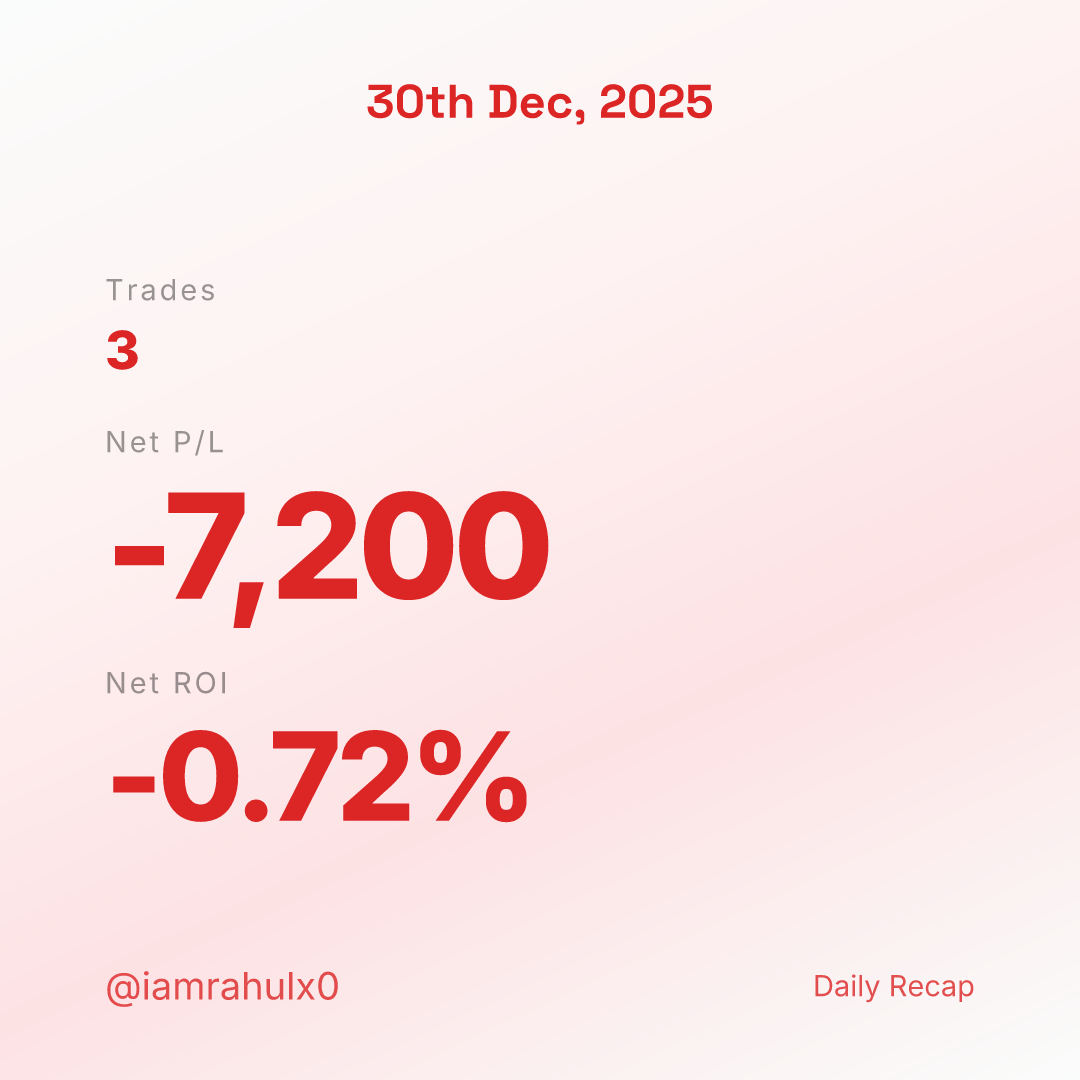
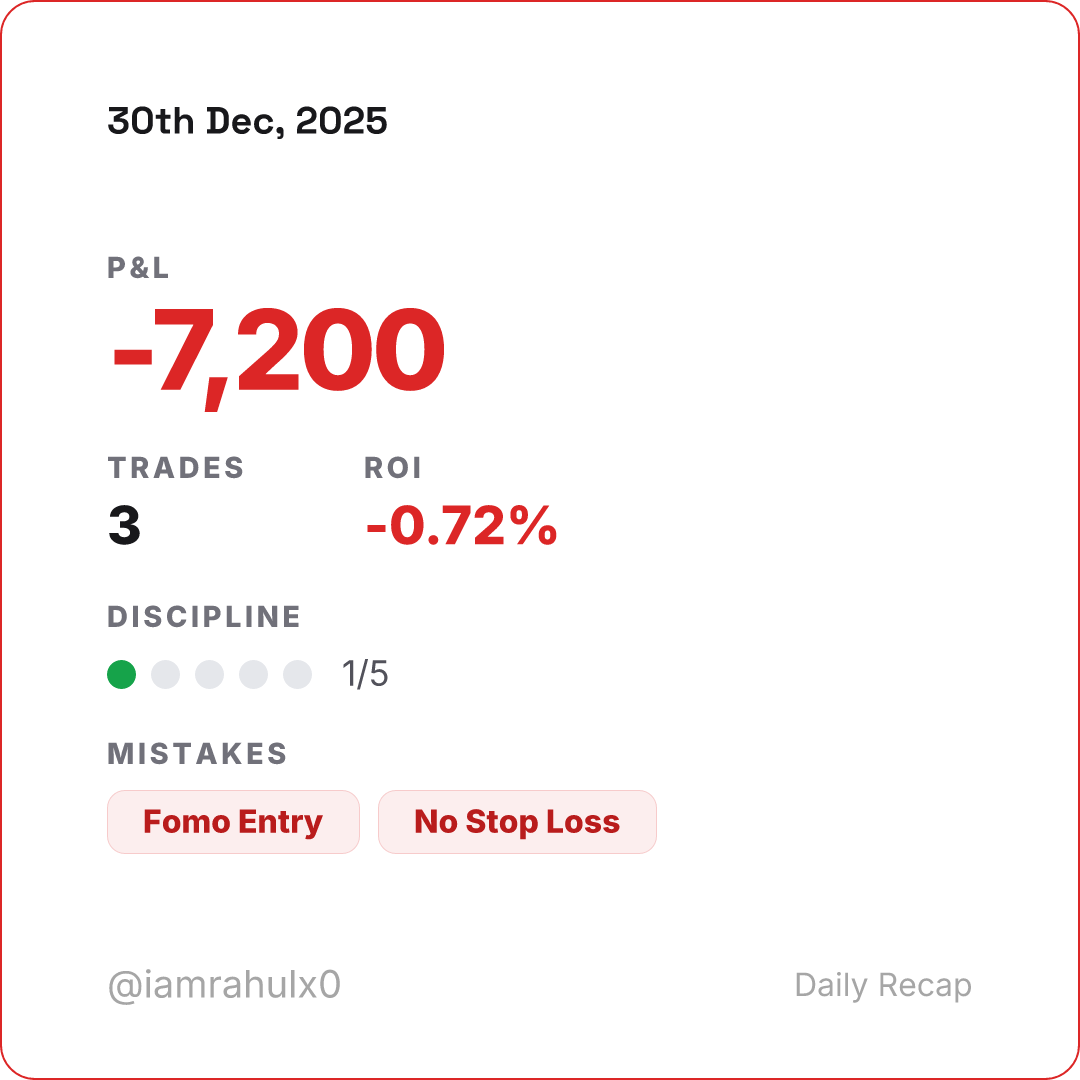
Update landing page: regenerate promo cards, fix border clipping & white bg
- Remove dark theme toggle & dark promo variants from landing page
- Regenerate all 6 promo PNGs with new card design (discipline + mistakes on daily)
- Fix accent border clipping: remove overflow-hidden/rounded from promo img containers
- Fix card background: add bg-white on img elements so transparent corners show white
- Delete unused dark-theme promo PNGs (daily/weekly/monthly-dark, *-loss-dark)
- Simplify og-card-styles to light-only theme

diff --git a/app/page.tsx b/app/page.tsx
@@ -6,8 +6,6 @@ import {
   TrendingUp,
   TrendingDown,
   Check,
-  Sun,
-  Moon,
 } from "lucide-react";
 import { PnLCardLogo } from "@/components/ui/pnlcard-logo";
 import dynamic from "next/dynamic";
@@ -630,28 +628,25 @@ function HeroDashboard() {
 // ─── Card showcase ───────────────────────────────────────────────
 
 type CardType = "daily" | "weekly" | "monthly";
-type CardTheme = "light" | "dark";
 type CardSide = "profit" | "loss";
 
 const CARD_META: Record<CardType, { label: string; pnl: string; pnlLoss: string; date: string }> = {
-  daily:   { label: "DAILY CARD",   pnl: "+₹8,400", pnlLoss: "-₹4,200", date: "2nd Jan, 2026" },
-  weekly:  { label: "WEEKLY CARD",  pnl: "+₹11,400", pnlLoss: "-₹6,800", date: "5 Jan – 11 Jan, 2026" },
-  monthly: { label: "MONTHLY CARD", pnl: "+₹65,000", pnlLoss: "-₹12,000", date: "Jan 2026" },
+  daily:   { label: "DAILY CARD",   pnl: "+₹8,400", pnlLoss: "-₹7,200", date: "2nd Jan, 2026" },
+  weekly:  { label: "WEEKLY CARD",  pnl: "+₹11,400", pnlLoss: "-₹10,000", date: "5 Jan – 11 Jan, 2026" },
+  monthly: { label: "MONTHLY CARD", pnl: "+₹65,000", pnlLoss: "-₹35,000", date: "Jan 2026" },
 };
 
-function getPromoSrc(type: CardType, theme: CardTheme, side: CardSide): string {
+function getPromoSrc(type: CardType, side: CardSide): string {
   const loss = side === "loss" ? "-loss" : "";
-  const dark = theme === "dark" ? "-dark" : "";
-  return `/promo/${type}${loss}${dark}.png`;
+  return `/promo/${type}${loss}.png`;
 }
 
 function CardShowcase() {
   const [cardType, setCardType] = useState<CardType>("daily");
-  const [theme, setTheme] = useState<CardTheme>("light");
   const [side, setSide] = useState<CardSide>("profit");
 
   const meta = CARD_META[cardType];
-  const mainSrc = getPromoSrc(cardType, theme, side);
+  const mainSrc = getPromoSrc(cardType, side);
 
   const otherTypes = (["daily", "weekly", "monthly"] as const).filter((t) => t !== cardType);
 
@@ -674,28 +669,6 @@ function CardShowcase() {
               {t.charAt(0).toUpperCase() + t.slice(1)}
             </button>
           ))}
-        </div>
-
-        {/* Theme */}
-        <div className="flex rounded-full border border-border bg-muted/40 p-0.5 sm:p-1">
-          <button
-            onClick={() => setTheme("light")}
-            className={`flex items-center gap-1 sm:gap-1.5 rounded-full px-2.5 py-1 sm:px-3 sm:py-1.5 text-xs sm:text-sm font-medium transition-all ${
-              theme === "light" ? "bg-white text-foreground shadow-sm" : "text-muted-foreground hover:text-foreground"
-            }`}
-          >
-            <Sun className="h-3 w-3 sm:h-3.5 sm:w-3.5" />
-            Light
-          </button>
-          <button
-            onClick={() => setTheme("dark")}
-            className={`flex items-center gap-1 sm:gap-1.5 rounded-full px-2.5 py-1 sm:px-3 sm:py-1.5 text-xs sm:text-sm font-medium transition-all ${
-              theme === "dark" ? "bg-white text-foreground shadow-sm" : "text-muted-foreground hover:text-foreground"
-            }`}
-          >
-            <Moon className="h-3 w-3 sm:h-3.5 sm:w-3.5" />
-            Dark
-          </button>
         </div>
 
         {/* Profit / Loss */}
@@ -732,7 +705,7 @@ function CardShowcase() {
             alt={`${meta.label} preview`}
             width={540}
             height={540}
-            className="w-full rounded-2xl shadow-lg ring-1 ring-black/5 transition-all duration-300"
+            className="w-full bg-white transition-all duration-300"
             draggable={false}
           />
           <div className="mt-4 text-center">
@@ -747,13 +720,13 @@ function CardShowcase() {
         {/* Side thumbnails */}
         <div className="hidden sm:flex flex-col gap-4 flex-shrink-0 pt-2">
           {otherTypes.map((t) => {
-            const src = getPromoSrc(t, theme, side);
+            const src = getPromoSrc(t, side);
             const m = CARD_META[t];
             return (
               <button
                 key={t}
                 onClick={() => setCardType(t)}
-                className="group relative w-48 rounded-xl overflow-hidden border border-border shadow-sm hover:shadow-md transition-all duration-200"
+                className="group relative w-48 transition-all duration-200"
               >
                 {/* eslint-disable-next-line @next/next/no-img-element */}
                 <img
@@ -761,7 +734,7 @@ function CardShowcase() {
                   alt={m.label}
                   width={200}
                   height={200}
-                  className="w-full rounded-xl transition-transform duration-200 group-hover:scale-[1.02]"
+                  className="w-full bg-white transition-transform duration-200 group-hover:scale-[1.02]"
                   draggable={false}
                 />
               </button>
@@ -1040,7 +1013,7 @@ export default function LandingPage() {
               </span>
             </h2>
             <p className="mt-4 text-lg text-muted-foreground">
-              Start free. Upgrade when you&apos;re ready to level up.
+              All features. 14 days. No card required.
             </p>
           </div>
 
@@ -1074,10 +1047,9 @@ export default function LandingPage() {
             </div>
           </div>
 
-          <div className="grid grid-cols-1 sm:grid-cols-2 gap-8 max-w-3xl mx-auto">
-            {/* Free tier */}
+          <div className="max-w-md mx-auto">
             <div
-              className={`rounded-2xl border border-border bg-white p-5 sm:p-8 transition-all duration-700 hover:shadow-lg ${
+              className={`relative rounded-2xl border-2 border-emerald-200 bg-white p-5 sm:p-8 shadow-xl transition-all duration-700 hover:shadow-2xl ${
                 pricing.visible
                   ? "opacity-100 translate-y-0"
                   : "opacity-0 translate-y-8"
@@ -1086,57 +1058,12 @@ export default function LandingPage() {
                 transitionDelay: pricing.visible ? "150ms" : "0ms",
               }}
             >
-              <h3 className="text-xl font-bold text-foreground">Free</h3>
-              <p className="mt-1 text-sm text-muted-foreground">
-                Build the journaling habit
-              </p>
-              <div className="mt-6 mb-8">
-                <span className="text-4xl font-extrabold tracking-tight text-foreground">
-                  ₹0
-                </span>
-                <span className="text-muted-foreground">/forever</span>
-              </div>
-              <ul className="space-y-3 mb-8">
-                {[
-                  "Daily trade logging",
-                  "Calendar heatmap",
-                  "Basic stats (P&L, win rate)",
-                  "Daily recap cards",
-                ].map((f) => (
-                  <li
-                    key={f}
-                    className="flex items-start gap-3 text-sm text-foreground"
-                  >
-                    <Check className="h-4 w-4 mt-0.5 shrink-0 text-emerald-500" />
-                    {f}
-                  </li>
-                ))}
-              </ul>
-              <Link
-                href="/signup"
-                className="btn-gradient-flow group relative flex w-full items-center justify-center gap-2 rounded-xl px-6 py-3 text-sm font-semibold border border-slate-300 bg-white text-slate-900 shadow-sm hover:-translate-y-0.5 active:translate-y-0 active:scale-[0.98] focus-visible:outline-none focus-visible:ring-2 focus-visible:ring-emerald-300 focus-visible:ring-offset-2 transition-transform"
-              >
-                <span className="relative z-[1]">Get Started</span>
-              </Link>
-            </div>
-
-            {/* Pro tier */}
-            <div
-              className={`relative rounded-2xl border-2 border-emerald-200 bg-white p-5 sm:p-8 shadow-xl transition-all duration-700 hover:shadow-2xl ${
-                pricing.visible
-                  ? "opacity-100 translate-y-0"
-                  : "opacity-0 translate-y-8"
-              }`}
-              style={{
-                transitionDelay: pricing.visible ? "300ms" : "0ms",
-              }}
-            >
               <div className="absolute -top-3.5 left-1/2 -translate-x-1/2 rounded-full bg-gradient-to-r from-emerald-600 to-emerald-500 px-4 py-1 text-xs font-bold text-white tracking-wide">
-                POPULAR
+                14-DAY FREE TRIAL
               </div>
-              <h3 className="text-xl font-bold text-foreground">Pro</h3>
+              <h3 className="text-xl font-bold text-foreground">PnLCard</h3>
               <p className="mt-1 text-sm text-muted-foreground">
-                For traders who want to improve
+                Everything you need to journal your trades
               </p>
               <div className="mt-6 mb-8">
                 {billingCycle === "monthly" ? (
@@ -1160,10 +1087,10 @@ export default function LandingPage() {
               </div>
               <ul className="space-y-3 mb-8">
                 {[
-                  "Everything in Free",
-                  "Weekly & Monthly Reviews",
-                  "Discipline analytics & trends",
-                  "All card types (no watermark)",
+                  "Daily trade logging & calendar heatmap",
+                  "Daily, weekly & monthly recap cards",
+                  "Weekly & monthly performance reviews",
+                  "Discipline analytics & mistake tracking",
                 ].map((f) => (
                   <li
                     key={f}
@@ -1176,9 +1103,9 @@ export default function LandingPage() {
               </ul>
               <Link
                 href="/signup"
-                className="btn-gradient-flow group relative flex w-full items-center justify-center gap-2 rounded-xl px-6 py-3 text-sm font-semibold border border-slate-300 bg-white text-slate-900 shadow-sm hover:-translate-y-0.5 active:translate-y-0 active:scale-[0.98] focus-visible:outline-none focus-visible:ring-2 focus-visible:ring-emerald-300 focus-visible:ring-offset-2 transition-transform"
+                className="flex w-full items-center justify-center gap-2 rounded-xl px-6 py-3 text-sm font-semibold border border-slate-300 bg-white text-slate-900 shadow-sm transition-all duration-200 hover:-translate-y-0.5 hover:bg-muted hover:shadow-md active:translate-y-0 active:scale-[0.98] focus-visible:outline-none focus-visible:ring-2 focus-visible:ring-emerald-300 focus-visible:ring-offset-2"
               >
-                <span className="relative z-[1]">Upgrade to Pro</span>
+                Start your 14-day Free Trial
               </Link>
               {billingCycle === "monthly" && (
                 <p className="mt-3 text-center text-xs text-muted-foreground">
@@ -1192,6 +1119,9 @@ export default function LandingPage() {
                   </button>
                 </p>
               )}
+              <p className="mt-4 text-center text-xs text-muted-foreground">
+                No card required to start
+              </p>
             </div>
           </div>
         </div>
@@ -1201,7 +1131,7 @@ export default function LandingPage() {
       <section className="relative py-16 sm:py-32 bg-page overflow-hidden">
         <div className="mx-auto max-w-3xl px-4 sm:px-6 text-center mb-8 sm:mb-12">
           <h2 className="text-2xl sm:text-4xl font-bold tracking-tight text-foreground">
-            Start your trading journal{" "}
+            Start your 14-day Free Trial{" "}
             <span className="bg-gradient-to-r from-emerald-600 to-emerald-400 bg-clip-text text-transparent">
               today.
             </span>

diff --git a/lib/og-card-styles.ts b/lib/og-card-styles.ts
@@ -2,16 +2,13 @@
  * Shared style helpers for OG card generation.
  * Used by /api/og/* routes to generate 1080×1080 PNG cards.
  *
- * Why: Satori (used by ImageResponse) requires inline styles.
- * These helpers centralize colors, gradients, and typography
- * so all card types (daily, weekly, monthly) stay consistent.
+ * Light mode only — clean white background, no gradients.
  */
 
 export type OgStyles = {
   accent: string;
   accentDim: string;
   footerText: string;
-  subtleGlow: string;
   pillBg: string;
   pillBorder: string;
   pillText: string;
@@ -28,77 +25,27 @@ export type OgStyles = {
   logoBorder: string;
 };
 
-export function getOgStyles(isDark: boolean, isProfit: boolean): OgStyles {
-  const accent = isProfit
-    ? isDark
-      ? "#22c55e"
-      : "#16a34a"
-    : isDark
-      ? "#ef4444"
-      : "#dc2626";
-  const accentDim = isProfit
-    ? isDark
-      ? "rgba(34,197,94,0.55)"
-      : "rgba(22,163,74,0.3)"
-    : isDark
-      ? "rgba(239,68,68,0.55)"
-      : "rgba(220,38,38,0.3)";
-  const footerText = isProfit
-    ? isDark
-      ? "rgba(34,197,94,0.80)"
-      : "rgba(22,163,74,0.80)"
-    : isDark
-      ? "rgba(239,68,68,0.80)"
-      : "rgba(220,38,38,0.80)";
-  const subtleGlow = isProfit
-    ? isDark
-      ? "rgba(34,197,94,0.14)"
-      : "rgba(22,163,74,0.06)"
-    : isDark
-      ? "rgba(239,68,68,0.14)"
-      : "rgba(220,38,38,0.06)";
-  const pillBg = isProfit
-    ? isDark
-      ? "rgba(34,197,94,0.10)"
-      : "rgba(22,163,74,0.08)"
-    : isDark
-      ? "rgba(239,68,68,0.10)"
-      : "rgba(220,38,38,0.08)";
-  const pillBorder = isProfit
-    ? isDark
-      ? "rgba(34,197,94,0.20)"
-      : "rgba(22,163,74,0.14)"
-    : isDark
-      ? "rgba(239,68,68,0.20)"
-      : "rgba(220,38,38,0.14)";
-  const bg = isDark
-    ? isProfit
-      ? "linear-gradient(155deg, #0d0f13 0%, #0b2618 26%, #104a28 50%, #0b2618 74%, #0d0f13 100%)"
-      : "linear-gradient(155deg, #0d0f13 0%, #260b10 26%, #4a1019 50%, #260b10 74%, #0d0f13 100%)"
-    : isProfit
-      ? "linear-gradient(155deg, #fafcfb 0%, #e8faf0 35%, #c8f4d4 60%, #a7e9b8 100%)"
-      : "linear-gradient(155deg, #fafcfb 0%, #fef2f2 35%, #fde2e4 65%, #fafcfb 100%)";
-  const text1 = isDark ? "#ececef" : "#18181b";
-  const text3 = isDark ? "#8a8a94" : "#52525b";
-  const labelColor = isDark ? "rgba(255,255,255,0.50)" : "rgba(0,0,0,0.4)";
-  const divider = isDark ? "rgba(255,255,255,0.09)" : "rgba(0,0,0,0.06)";
-  const cardBorder = isDark ? "rgba(255,255,255,0.10)" : "rgba(0,0,0,0.08)";
-  const pillText = isProfit
-    ? isDark
-      ? "rgba(34,197,94,0.90)"
-      : "#15803d"
-    : isDark
-      ? "rgba(239,68,68,0.90)"
-      : "#b91c1c";
-  const dateColor = isDark ? "#b4b4bc" : "#3f3f46";
-  const logoBg = isDark ? "rgba(255,255,255,0.10)" : "rgba(255,255,255,0.55)";
-  const logoText = isDark ? "rgba(255,255,255,0.55)" : "rgba(0,0,0,0.45)";
-  const logoBorder = isDark ? "rgba(255,255,255,0.10)" : "rgba(0,0,0,0.06)";
-  /** Scaled from original 10px at 370px → ~29px at 1080px */
+export function getOgStyles(isProfit: boolean): OgStyles {
+  const accent = isProfit ? "#16a34a" : "#dc2626";
+  const accentDim = isProfit ? "rgba(22,163,74,0.3)" : "rgba(220,38,38,0.3)";
+  const footerText = "rgba(0,0,0,0.35)";
+  const pillBg = isProfit ? "rgba(22,163,74,0.08)" : "rgba(220,38,38,0.08)";
+  const pillBorder = isProfit ? "rgba(22,163,74,0.14)" : "rgba(220,38,38,0.14)";
+  const bg = "#ffffff";
+  const text1 = "#18181b";
+  const text3 = "#52525b";
+  const labelColor = "#71717a";
+  const divider = "rgba(0,0,0,0.06)";
+  const cardBorder = "rgba(0,0,0,0.08)";
+  const pillText = isProfit ? "#15803d" : "#b91c1c";
+  const dateColor = "#3f3f46";
+  const logoBg = "rgba(255,255,255,0.55)";
+  const logoText = "rgba(0,0,0,0.45)";
+  const logoBorder = "rgba(0,0,0,0.06)";
   const lbl = {
     display: "flex" as const,
     fontSize: 29,
-    color: text3,
+    color: labelColor,
     textTransform: "uppercase" as const,
     letterSpacing: "0.1em",
     fontWeight: 500,
@@ -108,7 +55,6 @@ export function getOgStyles(isDark: boolean, isProfit: boolean): OgStyles {
     accent,
     accentDim,
     footerText,
-    subtleGlow,
     pillBg,
     pillBorder,
     pillText,
